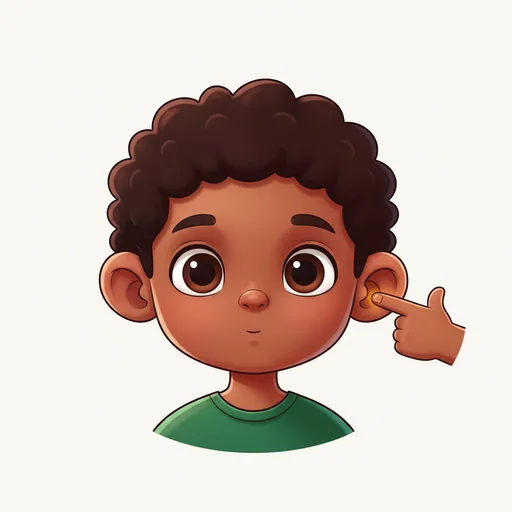
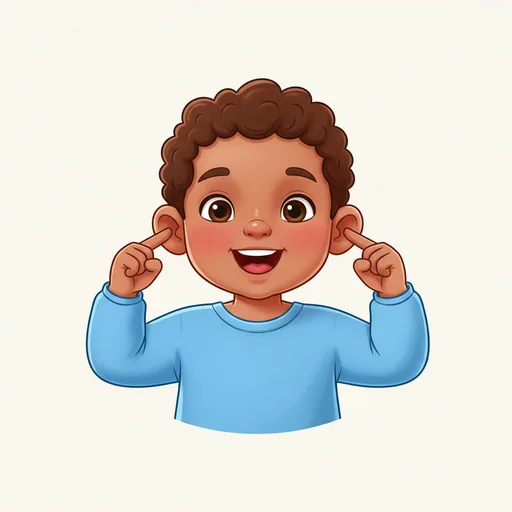
Fix: dynamic scene pairing (no reload) + body-part images + context-doc pass
Listening Game / Twin Mode: sessions no longer repeat the same 2 scenes until a
page reload. buildSession() now excludes the previous pair (module lastPair), and
ChoiceGame regenerates its plan on "Play again" via a new `buildPlan` prop (held in
state + a ref so deal/finish never read a stale plan). Screens pass buildPlan=
buildSession instead of a one-time useMemo. Verified: 8 consecutive sessions, zero
scene overlap between neighbours.

Images (owner eye-checked): regenerate 5 body parts via gen-symbols —
  • Nose: cute button nose (was generic/unattractive)
  • Teeth: teeth prominent, NO toothbrush (was toothbrush-dominated)
  • Head vs Hair: now unmistakable (Head = patting a round head w/ short hair;
    Hair = big lush hair as the feature)
  • Ears: BOTH hands pointing at BOTH ears (kids learn two ears)

Docs: deeper TINYVVOICE_PROJECT_CONTEXT.md pass — Listening Game rewritten as
mini-scenes, speak-by-name bullet, code map (+gameScenes.js/names.js).

npm run check + verify:ui (8 checks) green.

diff --git a/src/components/ChoiceGame.jsx b/src/components/ChoiceGame.jsx
@@ -48,10 +48,23 @@ export default function ChoiceGame({
   players = null,
   pickDistractors = null, // (target, pool, count) => items
   promptBadge = null, // (target) => node, shown in the prompt area
-  plan = null, // scene mode: ordered round-specs {target, sceneItems, scene, first, last}
+  plan: planProp = null, // scene mode (static): ordered round-specs {target, sceneItems, scene, first, last}
+  buildPlan = null, // scene mode (dynamic): () => a fresh plan; regenerated on "Play again" so scenes vary
 }) {
   const goHome = useStore((s) => s.goHome)
   const recordGame = useStore((s) => s.recordGame)
+
+  // Scene plan: a fresh one from buildPlan() (regenerated each replay so the 2 scenes never
+  // repeat), else the static `plan` prop. Held in state (for render) + a ref (so deal/finish
+  // never read a stale plan mid-replay).
+  const [plan, setPlan] = useState(() => (buildPlan ? buildPlan() : planProp))
+  const planRef = useRef(plan)
+  const nextPlan = () => {
+    const p = buildPlan ? buildPlan() : planProp
+    planRef.current = p
+    setPlan(p)
+    return p
+  }
 
   // In scene mode the plan drives the round count; otherwise the `rounds` prop does.
   const totalRounds = plan ? plan.length : rounds
@@ -79,7 +92,7 @@ export default function ChoiceGame({
   // out onomatopoeia) → the question. `withIntro` is true only on the initial deal, so
   // "Listen again" / retries never replay the scene intro.
   const speakPrompt = async (item, namePart, roundIdx, withIntro = false) => {
-    const spec = plan ? plan[roundIdx] : null
+    const spec = planRef.current ? planRef.current[roundIdx] : null
     if (withIntro && spec?.first && spec.scene.intro) await voice(spec.scene.intro)
     const name = nameCue(namePart)
     if (name) await voice(name)
@@ -90,9 +103,10 @@ export default function ChoiceGame({
   const deal = useCallback(
     (roundIdx) => {
       let t, distractors
-      if (plan) {
+      const activePlan = planRef.current
+      if (activePlan) {
         // Scene mode: fixed target from the plan, distractors drawn WITHIN the scene.
-        const spec = plan[roundIdx]
+        const spec = activePlan[roundIdx]
         t = spec.target
         distractors = sceneDistractors(t, spec.sceneItems, choices - 1)
       } else {
@@ -117,7 +131,7 @@ export default function ChoiceGame({
       const namePart = players ? players[roundIdx % players.length] : null
       setTimeout(() => speakPrompt(t, namePart, roundIdx, true), 450)
     },
-    [pool, choices, buildPrompt, players, pickDistractors, plan],
+    [pool, choices, buildPrompt, players, pickDistractors],
   )
 
   useEffect(() => {
@@ -149,7 +163,7 @@ export default function ChoiceGame({
     }
     // Scene mode: on a scene's last round (but not the very end), Pip closes the scene
     // ("Time to eat!") before the next scene's intro plays.
-    const spec = plan ? plan[round] : null
+    const spec = planRef.current ? planRef.current[round] : null
     const outro = spec?.last && nextRound < totalRounds ? [spec.scene.outro] : []
     // Model → "Here — cow!"; otherwise labelled praise ("You found the" + "cow!"),
     // with a light interjection ~1 in 4. Chained to audio completion + a settle beat
@@ -202,6 +216,7 @@ export default function ChoiceGame({
   }
 
   const replay = () => {
+    nextPlan() // fresh scene pair (buildSession avoids repeating the previous two) — no page reload needed
     setRound(0)
     setDone(false)
     deal(0)

diff --git a/src/screens/TwinModeScreen.jsx b/src/screens/TwinModeScreen.jsx
@@ -1,20 +1,18 @@
-import { useMemo } from 'react'
 import ChoiceGame from '../components/ChoiceGame.jsx'
 import { useStore } from '../store'
 import { findPrompt } from '../data/gamePrompt.js'
 import { buildSession } from '../data/gameScenes.js'
 
-// Turn-taking for two children, now over the same mini-scenes as the listening game —
-// the twins build the table / find Old MacDonald's animals together. The two real
-// profile names lead each prompt ("Audrey, find the cow!").
+// Turn-taking for two children, over the same mini-scenes as the listening game — the
+// twins find Old MacDonald's animals together. A fresh scene pair each play (buildPlan),
+// never repeating the previous. The two real profile names lead each prompt.
 export default function TwinModeScreen() {
   const players = useStore((s) =>
     s.profiles.filter((p) => !p.guest).slice(0, 2).map((p) => p.name),
   )
-  const plan = useMemo(() => buildSession(), [])
   return (
     <ChoiceGame
-      plan={plan}
+      buildPlan={buildSession}
       title="Twin Mode"
       grad="linear-gradient(135deg, #ff8c00 0%, #ff1493 100%)"
       choices={3}

diff --git a/src/screens/SoundGameScreen.jsx b/src/screens/SoundGameScreen.jsx
@@ -1,16 +1,14 @@
-import { useMemo } from 'react'
 import ChoiceGame from '../components/ChoiceGame.jsx'
 import { findPrompt } from '../data/gamePrompt.js'
 import { buildSession } from '../data/gameScenes.js'
 
-// The listening game runs as mini-scenes (Old MacDonald's Farm, Snack Time, At the
-// Park) so each round stays on-theme instead of a random bag. A fresh session is
-// built per mount (2 scenes; Farm always in, order randomised).
+// The listening game runs as mini-scenes (Farm, Zoo, Snack, …) so each round stays
+// on-theme. `buildPlan` gives ChoiceGame a fresh session on entry AND on "Play again"
+// (buildSession picks 2 scenes and never repeats the previous pair) — no page reload.
 export default function SoundGameScreen() {
-  const plan = useMemo(() => buildSession(), [])
   return (
     <ChoiceGame
-      plan={plan}
+      buildPlan={buildSession}
       title="Listening Game"
       grad="linear-gradient(135deg, #355c7d 0%, #6c5b7b 100%)"
       choices={4}

diff --git a/src/data/gameScenes.js b/src/data/gameScenes.js
@@ -195,8 +195,13 @@ export function sceneDistractors(target, sceneItemKeys, count) {
 // Build a fresh session: 2 DISTINCT scenes picked at random, in random order — so play
 // never opens on the same scene twice in a row. Flattened to an ordered list of round-
 // specs the game plays start-to-finish with intro/outro beats.
+let lastPair = [] // scene ids used by the previous session — excluded so play never opens on the same two
 export function buildSession() {
-  const chosen = shuffle(SCENES).slice(0, 2)
+  const avoid = new Set(lastPair)
+  let candidates = SCENES.filter((s) => !avoid.has(s.id))
+  if (candidates.length < 2) candidates = SCENES // safety (never with 13 scenes)
+  const chosen = shuffle(candidates).slice(0, 2)
+  lastPair = chosen.map((s) => s.id)
   const rounds = []
   for (const scene of chosen) {
     const n = Math.min(scene.rounds || 5, scene.items.length)

diff --git a/TINYVVOICE_PROJECT_CONTEXT.md b/TINYVVOICE_PROJECT_CONTEXT.md
@@ -5,16 +5,16 @@ A git pre-commit hook auto-refreshes the metadata block below; the human-maintai
 sections (Build Status, Next Steps) are updated by hand each push.
 
 <!-- AUTO:START -->
-> _Auto-updated on commit — last refreshed **2026-08-25 18:37 UTC** on branch `main`._
+> _Auto-updated on commit — last refreshed **2026-08-25 18:59 UTC** on branch `main`._
 
 **Recent commits:**
 
+- `cc53210 Docs: README + CLAUDE.md — speak-by-name + Listening-Game mini-scenes`
 - `b51fe27 Feat: 4 object scenes (Bath/Bedtime/Things That Go/Getting Dressed) + tidies`
 - `7febebc Feat: two more listening-game scenes — Dance Party + Good Morning!`
 - `5a1812f Feat: scene targets sampled from full pool + Counting 1–20; pilot-tracking map`
 - `b2badbe Feat: 3 more listening-game scenes (Zoo, 1-2-3 Counting, Fruits & Veggies)`
 - `470465e Feat: Listening Game mini-scenes (Farm/Snack/Park/Body) + visible prompt`
-- `46b1bb2 Docs: high-level capabilities, recent changes & premium re-imaging summary`
 <!-- AUTO:END -->
 
 ---
@@ -52,14 +52,19 @@ sections (Build Status, Next Steps) are updated by hand each push.
 - **Learning screen** — picture stage, word, IPA, big "hear it" button (auto-speaks on arrival),
   and **Language Ladder** chips that speak 2-word → 3-word phrases (word → sentence). "Things I Do"
   **verbs animate** here (looped key-pose frames — see below).
-- **Listening Game** & **Twin Mode** — the prompt asks **"Where's the …?" / "Who's …?"** and plays the
-  **real recorded animal sound** (`fx/<key>.mp3`, `src/data/fxKeys.js`) for fx-animals instead of a
-  spelled-out onomatopoeia; non-fx animals speak a short cue. Correct → **labelled praise** ("You found
-  the cow!", a light interjection ~1 in 4). Wrong is **errorless** (`ChoiceGame.jsx`): help escalates —
+- **Listening Game** & **Twin Mode** — play runs as **themed mini-scenes** (`src/data/gameScenes.js`):
+  a session picks **2 of 13 scenes** at random, in random order (Farm · Zoo · Snack · Fruits & Veggies ·
+  Park · Head to Toes · 1-2-3! · Dance Party · Good Morning! · Bath · Bedtime · Things That Go · Getting
+  Dressed), so the four choices are always **related**, opened & closed by Pip. Targets are **sampled
+  from each scene's full pool** and distractors drawn **within-scene**, so cards vary every play; the
+  **active prompt shows on screen** ("Where's the cow?", matching the audio — a grown-up aid). The prompt
+  asks **"Where's the …?" / "Who's …?"** and plays the **real recorded animal sound** (`fx/<key>.mp3`,
+  `src/data/fxKeys.js`) for fx-animals. Correct → **labelled praise** ("You found the cow!", light
+  interjection ~1 in 4). Wrong is **errorless** (`ChoiceGame.jsx`, `plan` mode): help escalates —
   "Try again" → repeat the prompt → **narrow to two** (others fade + go inert) → **model** the answer
   ("Here — cow!") and accept as success; help fires only on the child's tap (no failure state, no
-  scores). Twin Mode does turn-taking (name clip when we have one — audrey/adriel/ezra/leila/ethan —
-  else a warm **"Your turn!"**) and a shared, **no-winner** "You did it together!" finale.
+  scores). Twin Mode runs the same scenes with turn-taking, cheers each child **by name** (see below),
+  and ends on a shared, **no-winner** "You did it together!" finale.
 - **Word Practice / Phrase Builder** — per-child stage (`phraseLevel`): tap words, or build 2-/3-word
   phrases (`src/data/phraseContent.js`, `PhraseScreen`). Readiness graduates a child from words →
   phrases at ~25 distinct words.
@@ -76,6 +81,10 @@ sections (Build Status, Next Steps) are updated by hand each push.
 - **Multi-child profiles** — **generic, renamable** children (fresh devices ask "how many
   children? 1 or 2" at setup; Twin Mode gates on 2); per-child progress, stage, voice, screen-time,
   bedtime, focus words & songs, all in localStorage. The original device keeps its AJ/AG twins.
+- **Speak children by name** — the app cheers a child **by name** in the warm voice (Twin turns/finale,
+  praise): **200 common US names** are baked (`src/data/names.js`, ×3 voices); any other name uses the
+  optional premium runtime voice (`src/lib/tts.js`), else a gentle **"Your turn!"** — never a chime.
+  `audio.js` `hasNameClip`/`canSpeakName` gate it.
 - **Optional cloud accounts (Part B)** — parents may sign in (Supabase **magic link**) to back up +
   **sync** each child's progress/settings across devices and run a **30-day soft-trial** (banner
   only; child play never blocked). Fully local when Supabase env is absent. `src/lib/{supabase,cloud}.js`.
@@ -89,6 +98,19 @@ sections (Build Status, Next Steps) are updated by hand each push.
   phrases" at session-end (game done + wind-down). Per-child daily bucket, not a child score.
 - **Mobile-first PWA** — phone-width column, safe-area aware, add-to-home-screen, auto-updating
   service worker, `prefers-reduced-motion`, screen wake-lock so the device won't sleep mid-play.
+
+### ✅ Done recently (2026-08, later)
+- **Speak-by-name.** 200 common US names (`src/data/names.js`) baked to warm clips (×3 voices) — Twin
+  turns/finale/praise say the child's name; long tail → premium runtime voice, else "Your turn!".
+- **Listening Game & Twin Mode → mini-scenes** (`src/data/gameScenes.js`, `ChoiceGame` `plan` mode):
+  **13 scenes**, 2 sampled per session (random order), targets drawn from each full pool, within-scene
+  distractors, on-screen prompt, Pip intro/outro, per-scene header colour. Two song-anchored (Old
+  MacDonald w/ real animal sounds; Head-Shoulders). Object scenes reuse Word-Board images as scene-only
+  `EXTRA` items (no new art). Coverage hardened so a random target never chimes (also fixed latent
+  base-game praise-word chimes). Crying verb dropped the spoken "Boo hoo" (real cry FX carries it).
+- **Docs/marketing:** one-pager pamphlet + capabilities summary + screenshot script
+  (`docs/ONE_PAGER.md`, `CAPABILITIES_AND_RECENT_CHANGES.md`, `scripts/shoot-pamphlet.mjs`); pilot
+  planning (`DOMAIN_AND_PILOT_TRACKING.md`, on-demand name TTS scope `NAME_TTS_ONDEMAND.md`).
 
 ### ✅ Done recently (2026-08)
 - **SLP Phase 2 complete (A/B/C/D).** **A** — a **Social / core-communication** Word-Practice page
@@ -137,13 +159,16 @@ sections (Build Status, Next Steps) are updated by hand each push.
 ```
 src/
 ├── data/content.js        # 7 worlds / 140 items (say text, IPA, ladder phrases, PRAISE)
-├── data/phraseContent.js  # speech-therapy vocab (221 words / tiers / categories) + phrase banks
+├── data/phraseContent.js  # speech-therapy vocab (266 words / tiers / categories) + phrase banks + CORE_BOARD
+├── data/gameScenes.js     # Listening-Game / Twin-Mode mini-scenes (13; buildSession, plan, EXTRA items)
+├── data/names.js          # 200 baked child names (speak-by-name; hasNameClip/canSpeakName source)
+├── data/gamePrompt.js + spokenPhrases.js # single-source game prompts + every voice()'d string (coverage)
 ├── data/songs.js          # "Sing with Pip" catalog (13 PD songs; tag / grad / animated flag)
 ├── data/songAnimations.js # per-song animation configs (poses / lyrics / cue seq / timing) → build()
 ├── data/actionAnimations.js # "Things I Do" verb loops (keyed by item.sound) → ActionAnimation.jsx
-├── lib/audio.js           # warm voice-clip playback (sayWord/voice/voiceSeq/playItem) + chime/celebration
+├── lib/audio.js           # warm voice-clip playback (sayWord/voice/voiceSeq/playItem, name clips) + chime
 ├── lib/images.js          # local-WebP-first resolver (→ Unsplash/Pexels/Wikimedia) + cache
-├── lib/                   # tts.js (dormant premium hook) · today.js · screentime.js · useWakeLock.js
+├── lib/                   # tts.js (premium runtime voice — name long-tail) · today.js · screentime.js · useWakeLock.js
 ├── store.js               # Zustand: router, profiles, progress, stage, gate, screen-time
 ├── components/            # WordPic, TactileStage, ItemVisual, Ladder, Mascot(Pip), Confetti, ChoiceGame,
 │                          # SongAnimation, ActionAnimation, Onboarding, InstallHint, UpdatePrompt, ParentGate, ErrorBoundary
